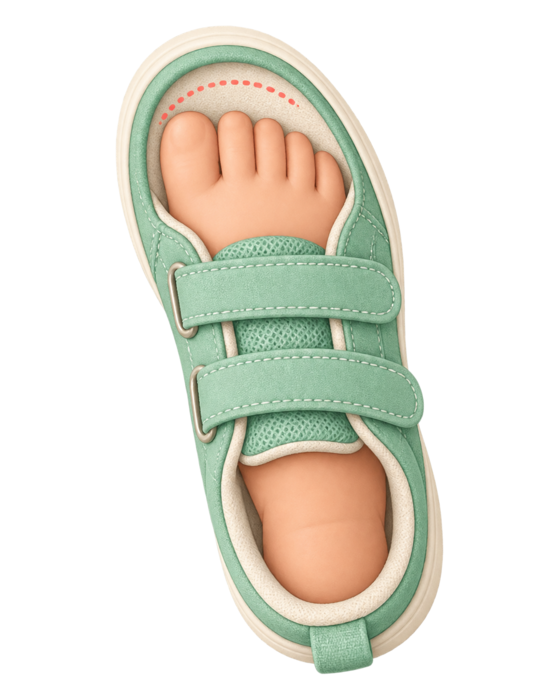
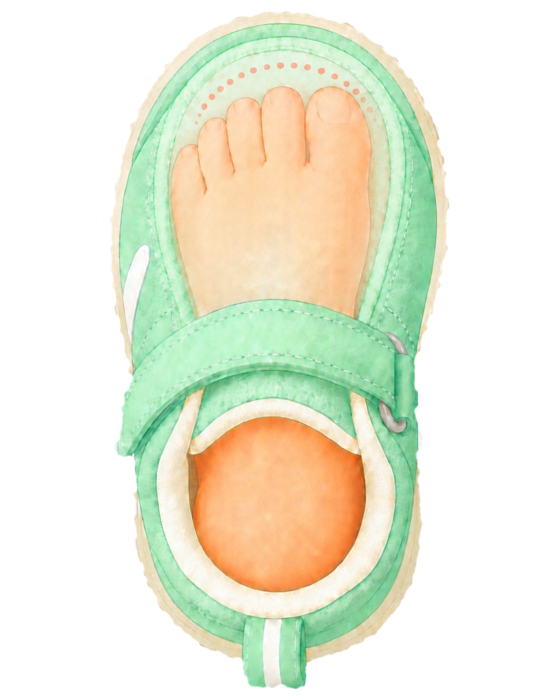
Refine shoe size-up guide hero illustration

diff --git a/docs/guide/shoes/size-up/index.html b/docs/guide/shoes/size-up/index.html
@@ -142,7 +142,7 @@
         </p>
       </div>
       <div class="shoe-hero-visual">
-        <img src="shoe-size-up-hero.png" width="560" height="700" fetchpriority="high" decoding="async" alt="かかとを合わせて履いた子どもの足と、つま先の余裕を示した靴のイラスト">
+        <img src="shoe-size-up-hero.png?v=20260818-2" width="560" height="700" fetchpriority="high" decoding="async" alt="かかとを合わせて履いた子どもの足と、つま先の余裕を示した靴のイラスト">
       </div>
     </div>
   </header>
